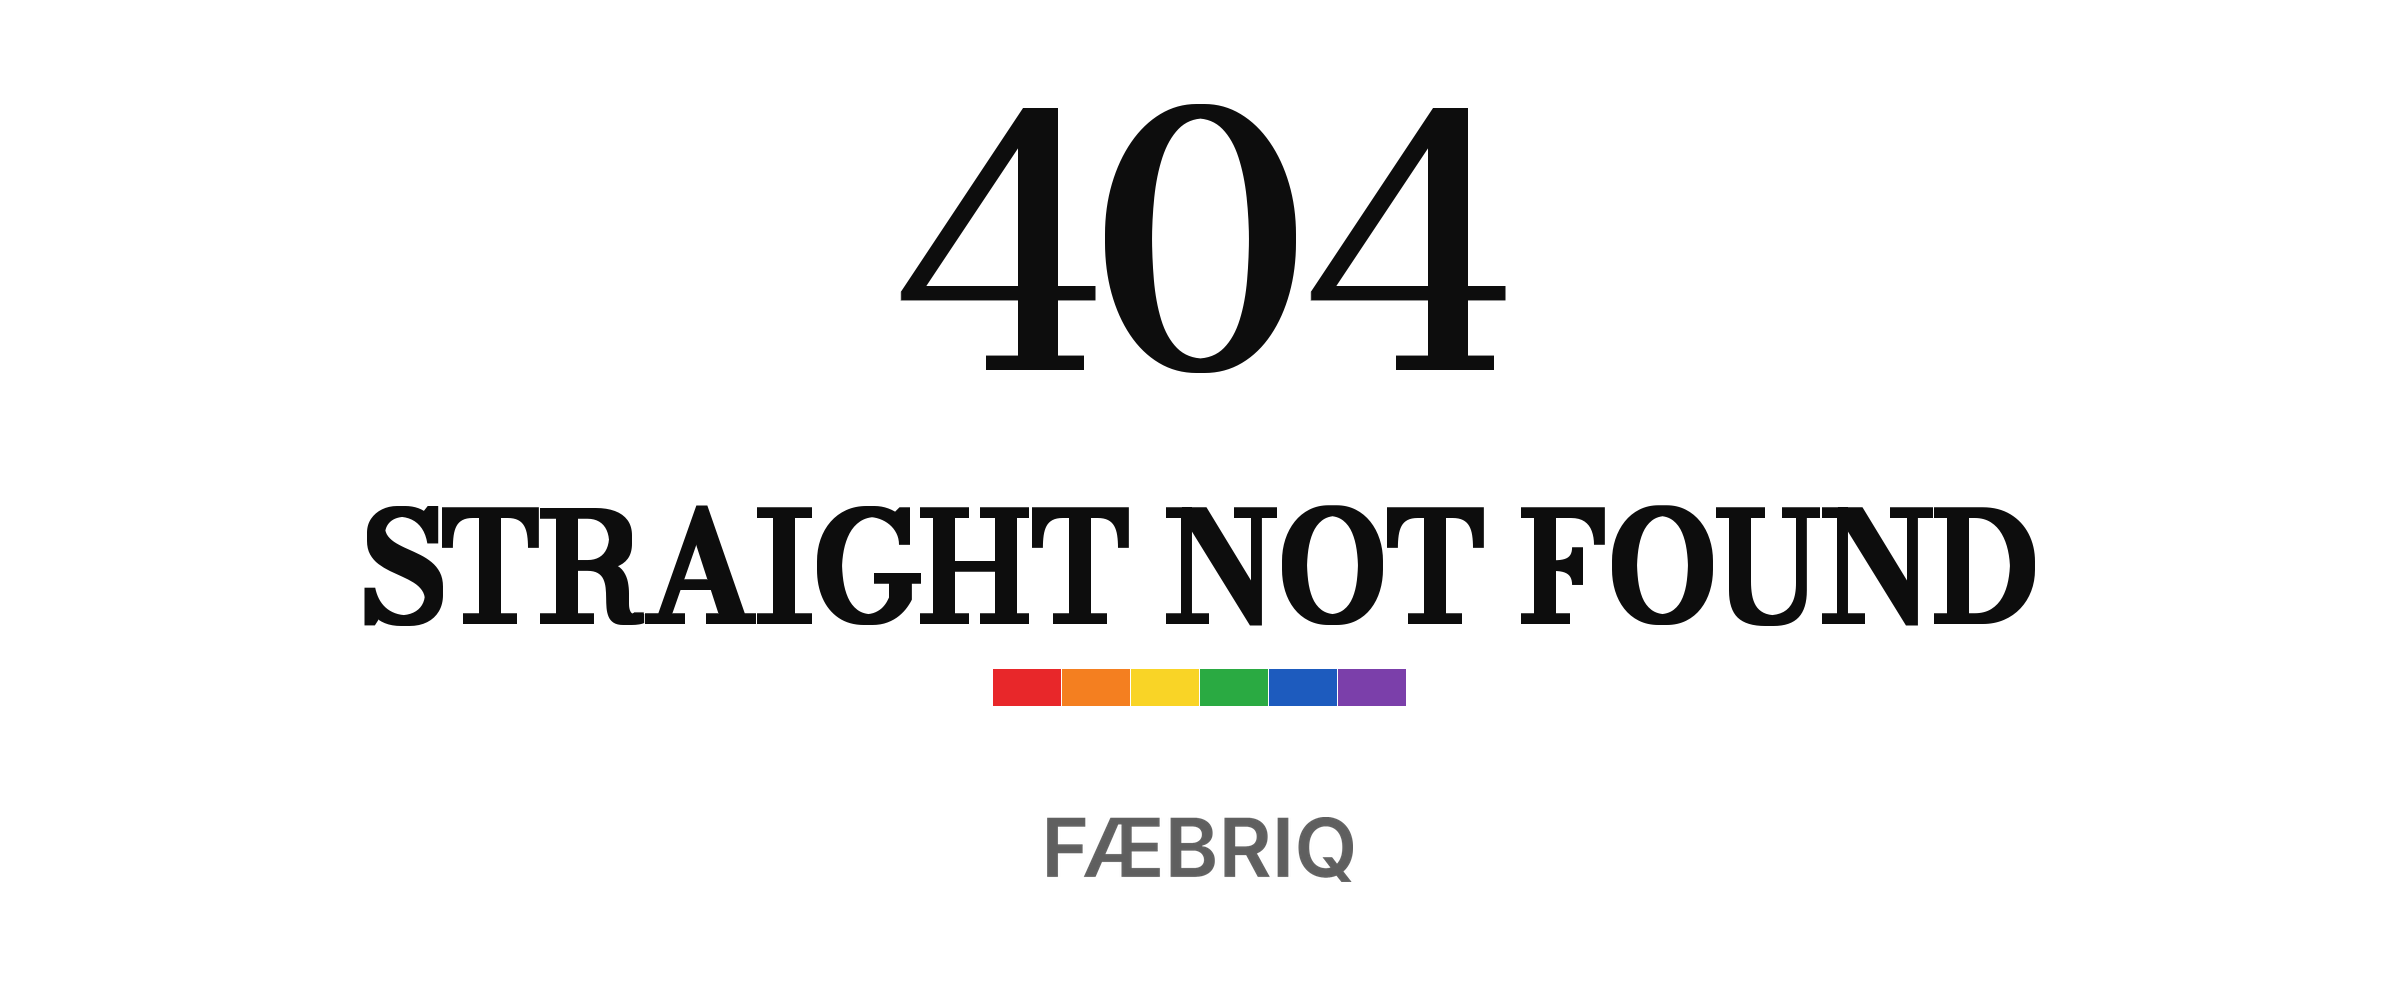
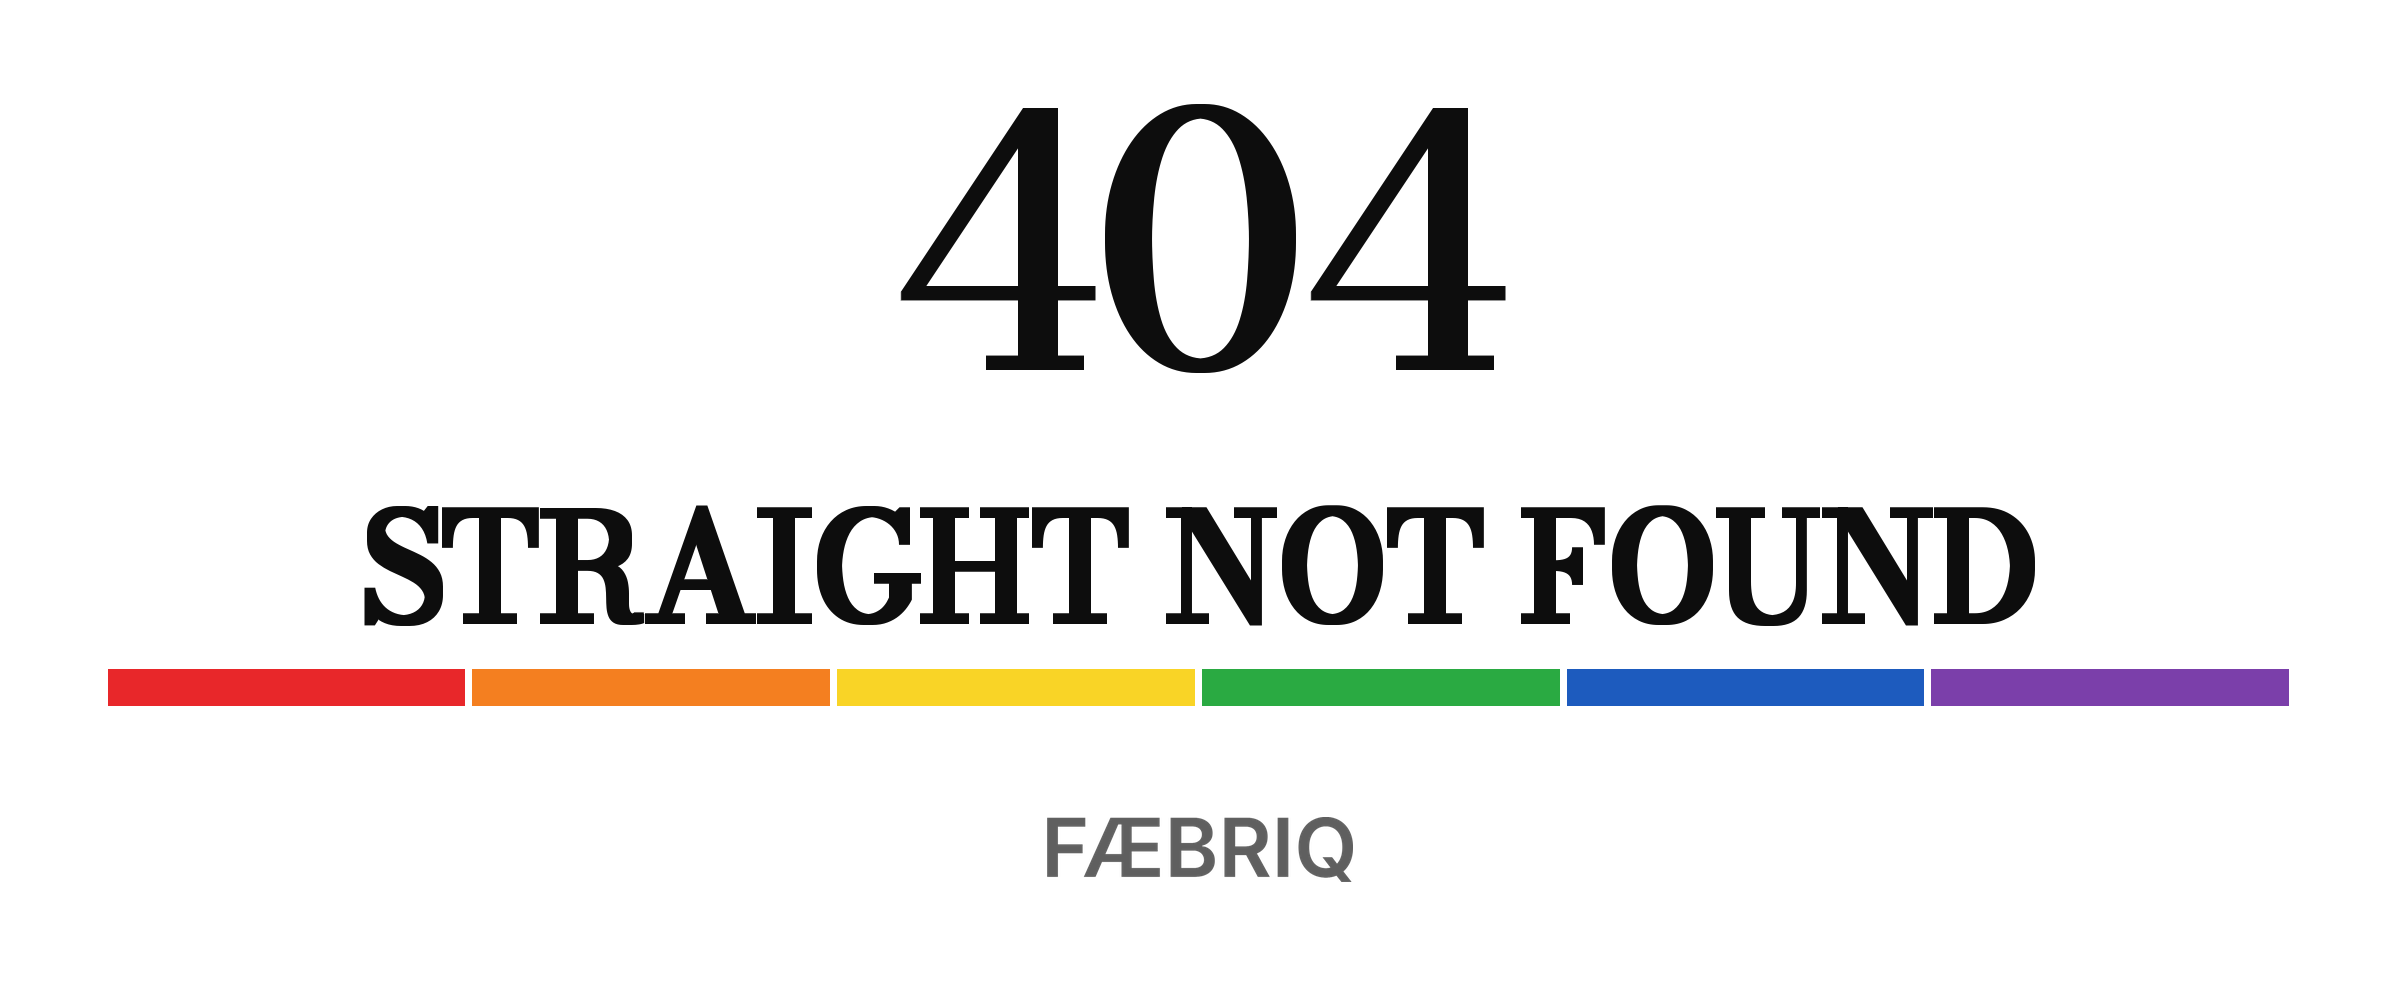
Widen 404 sticker bar to full phrase width
Claude-Session: https://claude.ai/code/session_0128ishu9SVi3TinxzWtSmKv

Changed region(s): [[0.5312, 0.6667, 0.9688, 0.7273], [0.0312, 0.6667, 0.4688, 0.7273]]

diff --git a/tools/make_404_v3.py b/tools/make_404_v3.py
@@ -24,11 +24,9 @@ def build(out,width,sticker,tote=False,ink='light'):
     im=Image.new('RGBA',(width,int(round(bottom+pad))),(0,0,0,0)); cx=width/2
     m._draw_reinforced(im,cx,y1,"404",f1,col['text']); m._draw_reinforced(im,cx,y2,"STRAIGHT NOT FOUND",f2,col['text'])
     d=ImageDraw.Draw(im)
-    # Bar-to-wordmark ratio (Maurice, 2026-09-25): on the sticker, the bar is
-    # 1.35x the FÆBRIQ mark's own width, not tied to the full canvas width B.
-    # The apparel file (sticker=False) has no mark, so it keeps the old
-    # full-width bar -- nothing for it to be 1.35x of.
-    bar_w = m.BAR_TO_MARK_RATIO * wm.width if sticker else B
+    # Full phrase-width bar on every 404 file, sticker included (Maurice,
+    # 2026-10-01, overriding the 1.35x-of-mark sticker bar from 2026-09-25).
+    bar_w = B
     sw, gap = m.SRC['stripe_frac']*bar_w, m.SRC['gap_frac']*bar_w
     bx = cx - bar_w/2
     for i,c in enumerate(m.CIRCUIT): x0=bx+i*(sw+gap); d.rectangle([x0,yb,x0+sw,yb+bh],fill=c)

diff --git a/CHANGELOG.md b/CHANGELOG.md
@@ -164,3 +164,4 @@ Why: first voice pass came out kids-cartoon, and AI video tests showed wordmark 
 - 2026/10/01: removed the two tote files added earlier today; they used the retired ERROR 404 / STRAIGHT NOT / FOUND layout. Canonical tote art stays 404-straight-not-found-v3-light-4500.png.
 - 2026/10/01: added 404 v3 tote print file with sans wordmark underneath (make_404_v3.py tote mode), per Maurice: tote always carries the wordmark.
 - 2026/10/01: 404 v3 sticker rebuilt with the sans wordmark (was Bodoni) and bar at 1.35x mark; added black-text (dark ink) sticker for white stock.
+- 2026/10/01: 404 stickers (light + dark) now use the full phrase-width bar, per Maurice; replaces the 1.35x-of-mark sticker bar.
